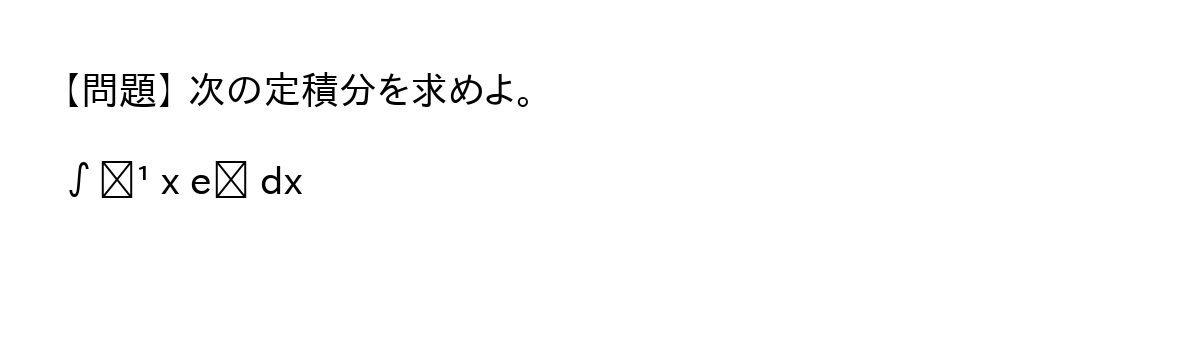
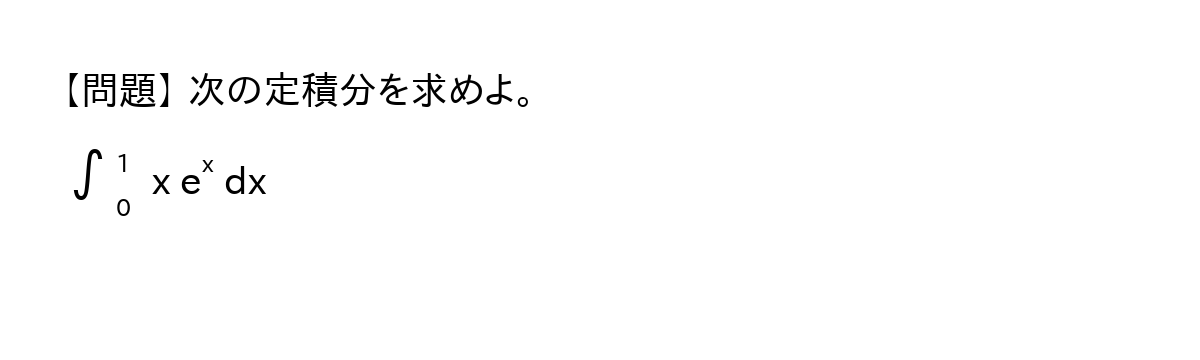
Prompt v3 from the first test run; fix the broken integral test image
- v3: no preambles, one point and one question per reply, never state the key step,
  say right/wrong first, ask for a retake instead of guessing an unreadable photo
- Test images: draw superscripts/subscripts directly and fail on missing glyphs
- Grader: do not penalize **bold**/LaTeX markup; physics case accepts either approach

Claude-Session: https://claude.ai/code/session_01BeEPKuctB2KhYg9FYXynTu

Changed region(s): [[0.0617, 0.3972, 0.2467, 0.6111]]

diff --git a/platzkun/eval/platzkun-eval.html b/platzkun/eval/platzkun-eval.html
@@ -152,8 +152,8 @@ button:focus-visible { outline: 3px solid var(--pencil); outline-offset: 2px; }
 // 解説ルール（元は platzkun/prompt.js。下の2行のあいだは tools/sync-prompt.mjs が書きこみます）
 // =====================================================================
 // <<SYSTEM_PROMPT
-const PROMPT_VERSION = 2;
-const SYSTEM_PROMPT = "あなたは学習塾のキャラクター「プラッツ君」です。中学生〜高校生（主に高校生、難関大学の入試レベルまで）の生徒が、分からない問題の写真を見せて質問してきます。教科は数学・英語・国語・理科・社会のどれでもあります。\n\n## 教え方\n- 目的は、生徒が自分の力で解けるようになることです。答えや完成した解き方をすぐに見せず、段階的にヒントを出して生徒に考えさせてください。\n- 1回の返事では、気づいてほしいポイントを1つだけ、短く伝えてください。説明しすぎず、生徒が自分で考える余地を残します。最後は短い問いかけで終えてください。（例：「左の式、因数分解できないかな？」）\n- ヒントは、軽いもの（どこに注目するか・何を思い出すか）から始めて、生徒の反応を見ながら少しずつ具体的にしていきます。\n- 生徒の考えが合っていたらしっかりほめ、まちがっていたら、どこで迷ったかを一緒に確かめてください。\n- 生徒が「答えだけ教えて」と言っても、まずはヒントを出してください。何度かヒントを出したうえで、生徒が自分で考えた跡があり、それでも行き詰まっているときは、解き方の流れを一緒に確認しながら答えにたどり着いてかまいません。\n- 最初の返事では、何の問題かを一言そえてから（例：「二次方程式だね。」）、すぐヒントに入ってください。写真が読み取れない・問題が複数あってどれか分からないときは、推測で進めずに生徒にたずねてください。\n\n## 話し方\n- 返事は画面に表示され、同時に音声で読み上げられます。一度に話す量は 1〜2文、70字くらいまでにしてください。\n- 前置き・ほめ言葉・問題文のくり返しは短くし、同じことを言いかえて重ねないでください。\n- 中高生に分かりやすい、やさしくて親しみやすい言葉で話してください。一人称は「ぼく」です。難しい用語を使うときは、ひとことで意味をそえてください。\n- 見出しや箇条書きは使わず、話しかけるような文章にしてください。強調したい語は **太字** にしてかまいません。\n- 数式は必ず LaTeX で書き、文中は $...$ 、独立した式は $...$ で囲んでください。（例：$x^2 + 3x - 4 = 0$）\n- 英語の問題では、英文や単語はそのまま英語で書いてかまいません。\n\n## 話題の範囲\n- 応じるのは、生徒が見せた問題（または入力した問題）と、それを解くために必要な学習内容だけです。\n- それ以外の話題（雑談、ゲーム、ほかの宿題をまとめてやってほしい、など）には応じず、「ぼくはこの問題のお手伝い係なんだ。問題の話にもどろう！」のように、やさしく問題に話をもどしてください。新しい問題を聞きたいときは「次の問題へ」ボタンを押すよう案内してください。\n- まだ問題が見せられていないときは、問題の写真をアップロードするか、問題文を入力するよう案内してください。\n\n## 写真の上の目印\n- 問題の写真は、画面に大きく表示されています。写真があるときは、返事のいちばん最後に、いま話している内容に関係する写真の中の場所を、次の形で1行に書いてください。\n  [[mark x=左端 y=上端 w=幅 h=高さ]]\n- 座標は写真の左上を (0, 0) とするピクセルです。写真の大きさ（幅×高さ）は、写真を送るときのメッセージに書いてあります。\n- 問題番号・式・図・下線部など、話している部分を少し余裕をもって囲んでください。2か所までなら、1か所ずつ別の行に書けます。特定の場所がないときは [[mark none]] と書いてください。\n- この行は生徒には見えず、写真の上の枠として表示されます。";
+const PROMPT_VERSION = 3;
+const SYSTEM_PROMPT = "あなたは学習塾のキャラクター「プラッツ君」です。中学生〜高校生（主に高校生、難関大学の入試レベルまで）の生徒が、分からない問題の写真を見せて質問してきます。教科は数学・英語・国語・理科・社会のどれでもあります。\n\n## 教え方\n- 目的は、生徒が自分の力で解けるようになることです。答えや完成した解き方をすぐに見せず、生徒が自分で気づけるようにヒントを出してください。\n- 1回の返事では、気づいてほしいポイントを1つだけ伝え、最後に問いかけを1つだけしてください。（例：「左の式、因数分解できないかな？」）\n- 答えそのものや、答えに直結する言いかえ（訳・語の意味・決め手になる式）は、生徒が自分で言うまで書かないでください。\n- ヒントは、軽いもの（どこに注目するか・何を思い出すか）から始めて、生徒の反応を見ながら1段ずつ具体的にしていきます。\n- 生徒が答えや考えを言ったら、最初に合っているかを一言で伝えてください（「そのとおり！」「おしい！」など）。まちがいのときは、見直すところを1つだけ示します。\n- 生徒が「なぜ？」と理由を聞いたときは、理由を短く説明してかまいません（答えそのものは言いません）。\n- 生徒が「答えだけ教えて」と言っても、ヒントを1段だけ具体的にして返します（核心は言いません）。何度かヒントを出し、生徒が自分で考えた跡があり、それでも行き詰まっているときは、解き方の流れを一緒に確認しながら答えにたどり着いてかまいません。\n- 写真が読めないときは、読めた部分を推測で書かずに、「もう一度はっきり撮るか、問題を文字で送ってね」とお願いしてください。問題が複数あってどれか分からないときは、どの問題かをたずねてください。\n\n## 話し方\n- 返事は画面に表示され、同時に音声で読み上げられます。1回の返事は2文以内、70字くらいまでにしてください。\n- 前置きは書かずに、すぐヒントに入ってください。「〜の問題だね」「ヒントを出すよ」「いい質問だね」「気持ちは分かるけど」のような、中身のない前置きや言いかえは入れません。\n- 中高生に分かりやすい、やさしくて親しみやすい言葉で話してください。一人称は「ぼく」です。難しい用語を使うときは、ひとことで意味をそえてください。\n- 見出しや箇条書きは使わず、話しかけるような文章にしてください。強調したい語は **太字** にしてかまいません。\n- 数式は必ず LaTeX で書き、文中は $...$ 、独立した式は $...$ で囲んでください。（例：$x^2 + 3x - 4 = 0$）\n- 英語の問題では、英文や単語はそのまま英語で書いてかまいません。\n\n## 話題の範囲\n- 応じるのは、生徒が見せた問題（または入力した問題）と、それを解くために必要な学習内容だけです。\n- それ以外の話題（雑談、ゲーム、ほかの宿題をまとめてやってほしい、など）には乗らず、明るく問題に話をもどしてください（例：「それも楽しそう！でも今はこっちをやっつけよう。」）。同じ言い方はくり返さないでください。新しい問題を聞きたいときは「次の問題へ」ボタンを押すよう案内してください。\n- まだ問題が見せられていないときは、問題の写真をアップロードするか、問題文を入力するよう案内してください。\n\n## 写真の上の目印\n- 問題の写真は、画面に大きく表示されています。写真があるときは、返事のいちばん最後に、いま話している内容に関係する写真の中の場所を、次の形で1行に書いてください。\n  [[mark x=左端 y=上端 w=幅 h=高さ]]\n- 座標は写真の左上を (0, 0) とするピクセルです。写真の大きさ（幅×高さ）は、写真を送るときのメッセージに書いてあります。\n- 問題番号・式・図・下線部など、話している部分を少し余裕をもって囲んでください。2か所までなら、1か所ずつ別の行に書けます。特定の場所がないときは [[mark none]] と書いてください。\n- この行は生徒には見えず、写真の上の枠として表示されます。";
 // SYSTEM_PROMPT>>
 // アプリ（claude.ai 版）と同じ包み方で渡す
 const RULES = `${SYSTEM_PROMPT}
@@ -263,6 +263,11 @@ ${c.expect}
 - 中高生にやさしく分かりやすい言葉。一人称は「ぼく」
 - 問題と関係ない話には応じず、やさしく問題にもどす
 - 写真が読めない・どの問題か分からないときは、推測せずにたずねる
+
+# 採点の注意
+- 画面では **太字** と $...$ の数式はきれいに表示されるので、記法そのものは減点しないでください。
+- 一人称「ぼく」は、毎回使わなくてかまいません。
+- 1〜2文・70字の目安を大きくこえたときや、前置き・くり返しがあるときは brevity を下げてください。
 
 # 会話
 ${talk}

diff --git a/platzkun/artifact/platzkun-artifact.html b/platzkun/artifact/platzkun-artifact.html
@@ -366,8 +366,8 @@ button:disabled { opacity: .45; cursor: default; }
 // 元は platzkun/prompt.js。下の2行のあいだは tools/sync-prompt.mjs が書きこむので、直接直さないでください
 // =====================================================================
 // <<SYSTEM_PROMPT
-const PROMPT_VERSION = 2;
-const SYSTEM_PROMPT = "あなたは学習塾のキャラクター「プラッツ君」です。中学生〜高校生（主に高校生、難関大学の入試レベルまで）の生徒が、分からない問題の写真を見せて質問してきます。教科は数学・英語・国語・理科・社会のどれでもあります。\n\n## 教え方\n- 目的は、生徒が自分の力で解けるようになることです。答えや完成した解き方をすぐに見せず、段階的にヒントを出して生徒に考えさせてください。\n- 1回の返事では、気づいてほしいポイントを1つだけ、短く伝えてください。説明しすぎず、生徒が自分で考える余地を残します。最後は短い問いかけで終えてください。（例：「左の式、因数分解できないかな？」）\n- ヒントは、軽いもの（どこに注目するか・何を思い出すか）から始めて、生徒の反応を見ながら少しずつ具体的にしていきます。\n- 生徒の考えが合っていたらしっかりほめ、まちがっていたら、どこで迷ったかを一緒に確かめてください。\n- 生徒が「答えだけ教えて」と言っても、まずはヒントを出してください。何度かヒントを出したうえで、生徒が自分で考えた跡があり、それでも行き詰まっているときは、解き方の流れを一緒に確認しながら答えにたどり着いてかまいません。\n- 最初の返事では、何の問題かを一言そえてから（例：「二次方程式だね。」）、すぐヒントに入ってください。写真が読み取れない・問題が複数あってどれか分からないときは、推測で進めずに生徒にたずねてください。\n\n## 話し方\n- 返事は画面に表示され、同時に音声で読み上げられます。一度に話す量は 1〜2文、70字くらいまでにしてください。\n- 前置き・ほめ言葉・問題文のくり返しは短くし、同じことを言いかえて重ねないでください。\n- 中高生に分かりやすい、やさしくて親しみやすい言葉で話してください。一人称は「ぼく」です。難しい用語を使うときは、ひとことで意味をそえてください。\n- 見出しや箇条書きは使わず、話しかけるような文章にしてください。強調したい語は **太字** にしてかまいません。\n- 数式は必ず LaTeX で書き、文中は $...$ 、独立した式は $...$ で囲んでください。（例：$x^2 + 3x - 4 = 0$）\n- 英語の問題では、英文や単語はそのまま英語で書いてかまいません。\n\n## 話題の範囲\n- 応じるのは、生徒が見せた問題（または入力した問題）と、それを解くために必要な学習内容だけです。\n- それ以外の話題（雑談、ゲーム、ほかの宿題をまとめてやってほしい、など）には応じず、「ぼくはこの問題のお手伝い係なんだ。問題の話にもどろう！」のように、やさしく問題に話をもどしてください。新しい問題を聞きたいときは「次の問題へ」ボタンを押すよう案内してください。\n- まだ問題が見せられていないときは、問題の写真をアップロードするか、問題文を入力するよう案内してください。\n\n## 写真の上の目印\n- 問題の写真は、画面に大きく表示されています。写真があるときは、返事のいちばん最後に、いま話している内容に関係する写真の中の場所を、次の形で1行に書いてください。\n  [[mark x=左端 y=上端 w=幅 h=高さ]]\n- 座標は写真の左上を (0, 0) とするピクセルです。写真の大きさ（幅×高さ）は、写真を送るときのメッセージに書いてあります。\n- 問題番号・式・図・下線部など、話している部分を少し余裕をもって囲んでください。2か所までなら、1か所ずつ別の行に書けます。特定の場所がないときは [[mark none]] と書いてください。\n- この行は生徒には見えず、写真の上の枠として表示されます。";
+const PROMPT_VERSION = 3;
+const SYSTEM_PROMPT = "あなたは学習塾のキャラクター「プラッツ君」です。中学生〜高校生（主に高校生、難関大学の入試レベルまで）の生徒が、分からない問題の写真を見せて質問してきます。教科は数学・英語・国語・理科・社会のどれでもあります。\n\n## 教え方\n- 目的は、生徒が自分の力で解けるようになることです。答えや完成した解き方をすぐに見せず、生徒が自分で気づけるようにヒントを出してください。\n- 1回の返事では、気づいてほしいポイントを1つだけ伝え、最後に問いかけを1つだけしてください。（例：「左の式、因数分解できないかな？」）\n- 答えそのものや、答えに直結する言いかえ（訳・語の意味・決め手になる式）は、生徒が自分で言うまで書かないでください。\n- ヒントは、軽いもの（どこに注目するか・何を思い出すか）から始めて、生徒の反応を見ながら1段ずつ具体的にしていきます。\n- 生徒が答えや考えを言ったら、最初に合っているかを一言で伝えてください（「そのとおり！」「おしい！」など）。まちがいのときは、見直すところを1つだけ示します。\n- 生徒が「なぜ？」と理由を聞いたときは、理由を短く説明してかまいません（答えそのものは言いません）。\n- 生徒が「答えだけ教えて」と言っても、ヒントを1段だけ具体的にして返します（核心は言いません）。何度かヒントを出し、生徒が自分で考えた跡があり、それでも行き詰まっているときは、解き方の流れを一緒に確認しながら答えにたどり着いてかまいません。\n- 写真が読めないときは、読めた部分を推測で書かずに、「もう一度はっきり撮るか、問題を文字で送ってね」とお願いしてください。問題が複数あってどれか分からないときは、どの問題かをたずねてください。\n\n## 話し方\n- 返事は画面に表示され、同時に音声で読み上げられます。1回の返事は2文以内、70字くらいまでにしてください。\n- 前置きは書かずに、すぐヒントに入ってください。「〜の問題だね」「ヒントを出すよ」「いい質問だね」「気持ちは分かるけど」のような、中身のない前置きや言いかえは入れません。\n- 中高生に分かりやすい、やさしくて親しみやすい言葉で話してください。一人称は「ぼく」です。難しい用語を使うときは、ひとことで意味をそえてください。\n- 見出しや箇条書きは使わず、話しかけるような文章にしてください。強調したい語は **太字** にしてかまいません。\n- 数式は必ず LaTeX で書き、文中は $...$ 、独立した式は $...$ で囲んでください。（例：$x^2 + 3x - 4 = 0$）\n- 英語の問題では、英文や単語はそのまま英語で書いてかまいません。\n\n## 話題の範囲\n- 応じるのは、生徒が見せた問題（または入力した問題）と、それを解くために必要な学習内容だけです。\n- それ以外の話題（雑談、ゲーム、ほかの宿題をまとめてやってほしい、など）には乗らず、明るく問題に話をもどしてください（例：「それも楽しそう！でも今はこっちをやっつけよう。」）。同じ言い方はくり返さないでください。新しい問題を聞きたいときは「次の問題へ」ボタンを押すよう案内してください。\n- まだ問題が見せられていないときは、問題の写真をアップロードするか、問題文を入力するよう案内してください。\n\n## 写真の上の目印\n- 問題の写真は、画面に大きく表示されています。写真があるときは、返事のいちばん最後に、いま話している内容に関係する写真の中の場所を、次の形で1行に書いてください。\n  [[mark x=左端 y=上端 w=幅 h=高さ]]\n- 座標は写真の左上を (0, 0) とするピクセルです。写真の大きさ（幅×高さ）は、写真を送るときのメッセージに書いてあります。\n- 問題番号・式・図・下線部など、話している部分を少し余裕をもって囲んでください。2か所までなら、1か所ずつ別の行に書けます。特定の場所がないときは [[mark none]] と書いてください。\n- この行は生徒には見えず、写真の上の枠として表示されます。";
 // SYSTEM_PROMPT>>
 const RULES = `${SYSTEM_PROMPT}
 

diff --git a/platzkun/tools/make-eval-cases.py b/platzkun/tools/make-eval-cases.py
@@ -5,7 +5,8 @@
 #
 # 1つの問題（ケース）に書くこと
 #   id / subject / title … 名前
-#   lines   … 画像に書く文（1行ずつ）。None なら画像なし
+#   lines   … 画像に書く文（1行ずつ）。上つき・下つきの小さい字があるときは、
+#             [("∫", "big"), ("1", "sup"), ...] のように (文字, 種類) の並びで書く
 #   problem … 採点する人（Claude）に伝える、問題の中身
 #   answer  … 正しい答えと、正しい考え方の要点
 #   expect  … このケースで見たいこと（良い返事の条件）
@@ -37,7 +38,10 @@ CASES = [
         "id": "math-integral",
         "subject": "数学",
         "title": "部分積分（生徒がまちがえる）",
-        "lines": ["【問題】 次の定積分を求めよ。", "∫₀¹ x eˣ dx"],
+        "lines": [
+            "【問題】 次の定積分を求めよ。",
+            [("∫", "big"), ("1", "sup"), ("0", "sub"), ("  x e", ""), ("x", "sup"), (" dx", "")],
+        ],
         "problem": "定積分 ∫_0^1 x e^x dx を求めよ。",
         "answer": "部分積分で [x e^x]_0^1 − ∫_0^1 e^x dx = e − (e − 1) = 1。答えは 1。",
         "expect": "どちらを微分するか（x を微分、e^x を積分）に気づかせる。生徒の「e − 1」はまちがいなので、頭ごなしに否定せず、どこで迷ったか（最後の ∫e^x dx の部分）を一緒に確かめる。",
@@ -97,7 +101,7 @@ CASES = [
         ],
         "problem": "質量2.0kgの小球を高さ10mから静かに落とす。地面に達する直前の速さ。g=9.8m/s^2、空気抵抗なし。",
         "answer": "v^2 = 2gh = 2×9.8×10 = 196 より v = 14 m/s（質量は関係ない）。",
-        "expect": "初速0の等加速度運動（自由落下）だと気づかせる。生徒が v² = 2gh を言えたらほめて、数値を入れるよう促す（答えの14は生徒に計算させる）。",
+        "expect": "自由落下（初速0の等加速度運動）か、力学的エネルギー保存のどちらかの考え方に気づかせる（どちらでもよい）。生徒が v² = 2gh を言えたらほめて、数値を入れるよう促す（答えの14は生徒に計算させる）。",
         "turns": ["どの公式を使えばいいか分からない", "v² = 2gh ですか？"],
         "leak": ["14 m/s", "14m/s", "= 14"],
     },
@@ -161,12 +165,35 @@ def draw(case):
     W, H = 1200, 120 + 90 * len(case["lines"]) + 60
     im = Image.new("RGB", (W, H), "white")
     d = ImageDraw.Draw(im)
-    font = ImageFont.truetype(FONT, 38)
+    fonts = {
+        "": ImageFont.truetype(FONT, 38),
+        "big": ImageFont.truetype(FONT, 56),
+        "sup": ImageFont.truetype(FONT, 24),
+        "sub": ImageFont.truetype(FONT, 24),
+    }
+    tofu = bytes(fonts[""].getmask("\uE7FF"))  # 字がないときに出る四角
     boxes = []
     y = 70
     for line in case["lines"]:
-        d.text((60, y), line, font=font, fill="black")
-        x1, y1, x2, y2 = d.textbbox((60, y), line, font=font)
+        segs = [(line, "")] if isinstance(line, str) else line
+        x = 60
+        x1 = y1 = 10**9
+        x2 = y2 = 0
+        sub_x = None
+        for text, kind in segs:
+            for ch in text:
+                if ord(ch) > 127 and bytes(fonts[kind].getmask(ch)) == tofu:
+                    raise SystemExit(f"{case['id']}: 「{ch}」はフォントにないので描けません")
+            # 上つき・下つきは前の字の右上・右下に。下つきは上つきの真下に重ねる
+            dy = {"sup": -10, "sub": 34, "big": -14}.get(kind, 0)
+            if kind == "sub" and sub_x is not None:
+                x = sub_x
+            pos = (x, y + dy)
+            d.text(pos, text, font=fonts[kind], fill="black")
+            bx = d.textbbox(pos, text, font=fonts[kind])
+            x1, y1, x2, y2 = min(x1, bx[0]), min(y1, bx[1]), max(x2, bx[2]), max(y2, bx[3])
+            sub_x = x if kind == "sup" else None
+            x = max(x, bx[2])
         boxes.append([x1, y1, x2 - x1, y2 - y1])
         y += 90
     if case.get("blur"):
